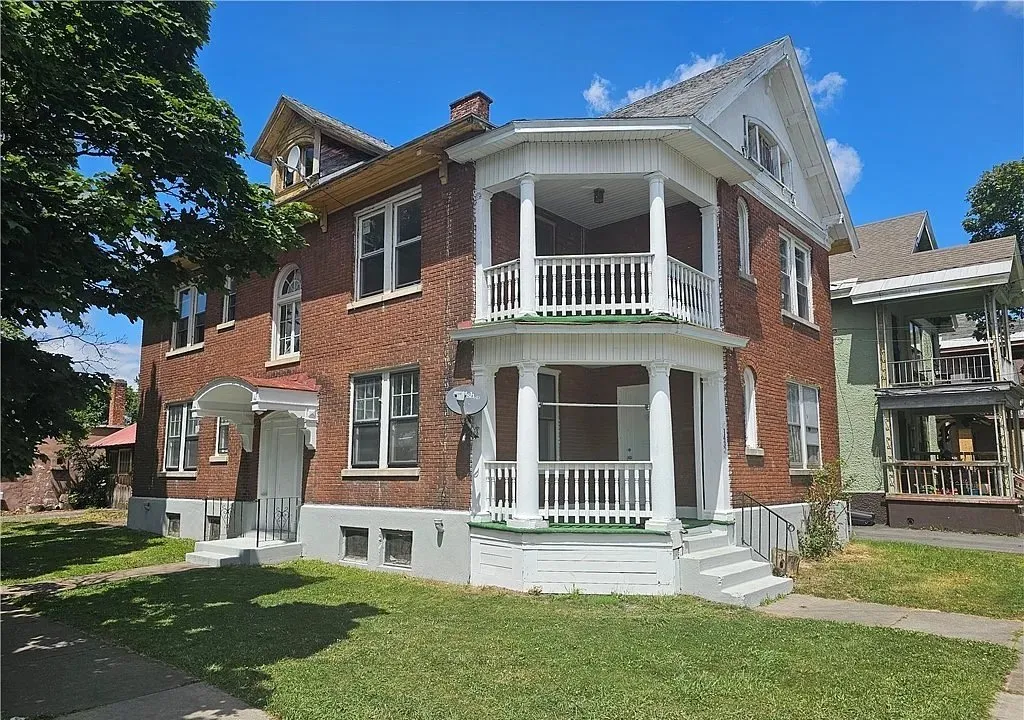
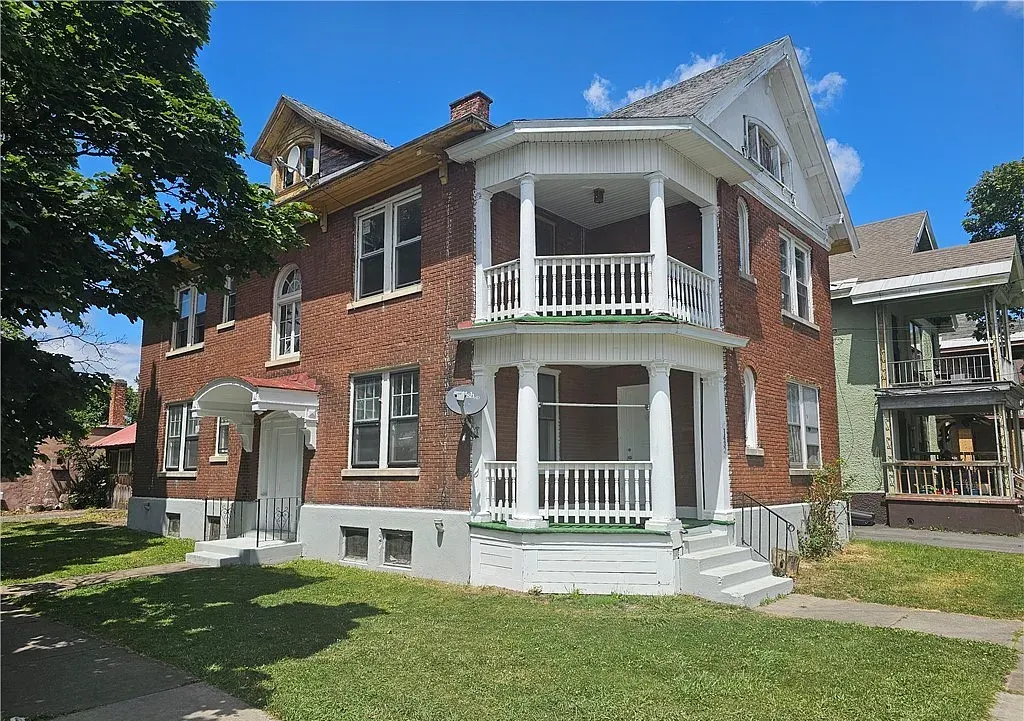
QA fixes, all project photos, decks service, stronger services page

diff --git a/src/data/services.ts b/src/data/services.ts
@@ -3,6 +3,7 @@ export interface Service {
   name: string;
   summary: string;
   intro: string;
+  design: string;
   includes: string[];
   image: string;
   imageAlt: string;
@@ -13,65 +14,93 @@ export const services: Service[] = [
   {
     slug: "kitchens-baths",
     name: "Kitchens and baths",
-    summary: "Full remodels or targeted updates: cabinets, counters, tile, fixtures and layout changes.",
+    summary: "Full remodels or targeted updates, from layout and cabinets to tile and fixtures.",
     intro:
-      "Kitchens and bathrooms are the rooms people use hardest and notice most. We handle the whole job, from demo through tile, fixtures and trim, with one crew start to finish.",
+      "Kitchens and bathrooms are the rooms people use hardest and notice most. We take on everything from a full gut remodel to a cabinet and countertop refresh, with one crew from demo to the last fixture.",
+    design:
+      "Not sure what you want yet? We help you work out the layout, cabinets, counters, tile and fixtures before any work starts, so you know what the finished room will look like.",
     includes: [
-      "Full kitchen and bathroom remodels",
-      "Cabinets and countertops",
-      "Tile floors, backsplashes and showers",
-      "Plumbing fixtures and vanities",
-      "Layout changes and new lighting",
+      "Full kitchen remodels",
+      "Bathroom remodels and updates",
+      "Cabinets, countertops and islands",
+      "Tile backsplashes, floors and showers",
+      "Sinks, faucets, vanities and fixtures",
+      "Layout changes, lighting and flooring",
     ],
-    image: "/images/kitchen.webp",
-    imageAlt: "Remodeled kitchen",
+    image: "/images/kitchen-dark-cabinets-wide.webp",
+    imageAlt: "Kitchen with dark cabinets, island and tile backsplash",
   },
   {
-    slug: "basements-living-spaces",
-    name: "Basements and living spaces",
-    summary: "Finished basements, flooring, paint, trim and stairs.",
+    slug: "living-spaces-basements",
+    name: "Living spaces and basements",
+    summary: "Flooring, paint, trim, stairs, and finished attics and basements.",
     intro:
-      "A finished basement or a refreshed living area changes how a house lives day to day. We frame, finish and trim it out so it feels like it was always part of the home.",
+      "A refreshed living area or a newly finished attic or basement changes how a house lives day to day. We handle the floors, walls, trim and stairs so the space feels like it was always part of the home.",
+    design:
+      "We help you plan the space: flooring and paint choices, trim details, and how a finished attic or basement will be laid out and used.",
     includes: [
-      "Finished basements",
-      "Flooring installation",
+      "Hardwood, vinyl plank and tile flooring",
       "Interior painting",
       "Trim, doors and millwork",
-      "Stairs and railings",
+      "Stairs, railings and balusters",
+      "Finished attics and basements",
     ],
-    image: "/images/staircase.webp",
-    imageAlt: "Rebuilt staircase and trim",
+    image: "/images/open-kitchen-living.webp",
+    imageAlt: "Open kitchen and living area with hardwood floors",
   },
   {
     slug: "whole-home-renovations",
     name: "Whole-home renovations",
     summary: "Several rooms or the whole house, planned and built as one project.",
     intro:
-      "When a house needs more than one room done, it pays to plan it as one project. We sequence the work so trades are not undoing each other, and one crew carries it through.",
+      "When a house needs more than one room done, it pays to plan it as one project. We sequence the work so trades are not undoing each other, and one crew carries it through from start to finish.",
+    design:
+      "We help you set priorities and a plan for the whole house, room by room, so the finishes work together and the work happens in the right order.",
     includes: [
       "Multi-room remodels",
       "Full interior renovations",
+      "Kitchens, baths and floors done together",
+      "Interior and exterior work planned as one project",
       "Planning and sequencing the work",
-      "Coordinating interior and exterior work",
     ],
-    image: "/images/living-room.webp",
-    imageAlt: "Open living area after renovation",
+    image: "/images/exterior.webp",
+    imageAlt: "Brick two-family home after a whole-home renovation",
+  },
+  {
+    slug: "decks-porches-outdoor-living",
+    name: "Decks, porches and outdoor living",
+    summary: "Decks, covered and screened porches, patios and outdoor fireplaces.",
+    intro:
+      "Outdoor space is some of the most-used square footage a house has. We build single and multi-level decks, covered and screened porches, stairs and railings, and stone patios with outdoor fireplaces.",
+    design:
+      "We help you design it: size and layout, levels and stairs, railing and decking materials, and how it connects to the house and the yard.",
+    includes: [
+      "Single and multi-level decks",
+      "Covered and screened porches",
+      "Stairs and railings",
+      "Paver patios",
+      "Stone outdoor fireplaces",
+    ],
+    image: "/images/double-covered-deck.webp",
+    imageAlt: "Two-story double covered deck",
   },
   {
     slug: "roofing-siding-windows",
     name: "Roofing, siding and windows",
-    summary: "Exterior work on its own or as part of a larger renovation.",
+    summary: "Roofs, siding and windows, on their own or as part of a renovation.",
     intro:
-      "Roofing, siding and windows protect everything inside. We take them on as standalone jobs or as part of a bigger renovation.",
+      "Roofing, siding and windows protect everything inside and set the look of the house from the street. We take them on as standalone jobs or as part of a bigger renovation.",
+    design:
+      "We help you choose materials and colors that suit the house, from shingle and siding styles to trim and window options.",
     includes: [
-      "Roof repairs and replacements",
+      "Roof repairs and full replacements",
       "Vinyl, cedar and engineered siding",
       "Window replacement",
-      "Porches and exterior trim",
+      "Exterior trim and doors",
       "Exterior painting",
     ],
-    image: "/images/exterior.webp",
-    imageAlt: "Home exterior with renovated porches",
+    image: "/images/roofing-siding-blue.webp",
+    imageAlt: "Colonial home with new blue vinyl siding and roof",
   },
 ];
 

diff --git a/src/data/gallery.ts b/src/data/gallery.ts
@@ -1,14 +1,60 @@
 export interface Photo {
   src: string;
   alt: string;
-  service: string; // service slug
+  service?: string; // service slug, if the photo belongs to one
+  featured?: boolean; // shown in the home page row
 }
 
-// Newest first. Add a photo by dropping the file in public/images and adding a line here.
+// Add a photo by dropping the file in public/images and adding a line here.
 export const gallery: Photo[] = [
-  { src: "/images/living-room.webp", alt: "Renovated living area with refinished hardwood floors", service: "whole-home-renovations" },
-  { src: "/images/kitchen.webp", alt: "Renovated kitchen with white cabinets", service: "kitchens-baths" },
-  { src: "/images/bathroom.webp", alt: "Renovated bathroom with new vanity", service: "kitchens-baths" },
-  { src: "/images/staircase.webp", alt: "Rebuilt staircase with new railings", service: "basements-living-spaces" },
-  { src: "/images/exterior.webp", alt: "Brick home with renovated double porches", service: "roofing-siding-windows" },
+  // Kitchens and baths
+  { src: "/images/kitchen-dark-cabinets-wide.webp", alt: "Kitchen with dark cabinets, island and tile backsplash", service: "kitchens-baths", featured: true },
+  { src: "/images/kitchen-navy-cabinets.webp", alt: "Kitchen with navy cabinets and mosaic backsplash", service: "kitchens-baths", featured: true },
+  { src: "/images/kitchen-dark-cabinets.webp", alt: "L-shaped kitchen with dark cabinets and quartz counters", service: "kitchens-baths" },
+  { src: "/images/kitchen-dark-cabinets-2.webp", alt: "Kitchen with dark cabinets and stainless appliances", service: "kitchens-baths" },
+  { src: "/images/kitchen-navy-cabinets-2.webp", alt: "Navy kitchen cabinets with range and microwave", service: "kitchens-baths" },
+  { src: "/images/kitchen-backsplash.webp", alt: "Cabinets and glass tile backsplash", service: "kitchens-baths" },
+  { src: "/images/kitchen-white.webp", alt: "Kitchen with white cabinets and new flooring", service: "kitchens-baths" },
+  { src: "/images/shower-tile.webp", alt: "Tiled walk-in shower", service: "kitchens-baths" },
+  { src: "/images/bathroom-vanity.webp", alt: "Bathroom with new vanity and lighting", service: "kitchens-baths" },
+  { src: "/images/bathroom-tile.webp", alt: "Bathroom with tile floor and new vanity", service: "kitchens-baths" },
+
+  // Living spaces and basements
+  { src: "/images/open-kitchen-living.webp", alt: "Open kitchen and living area with hardwood floors", service: "living-spaces-basements", featured: true },
+  { src: "/images/living-room.webp", alt: "Living room with refinished hardwood floors", service: "living-spaces-basements", featured: true },
+  { src: "/images/finished-attic.webp", alt: "Finished attic room with hardwood floors", service: "living-spaces-basements" },
+  { src: "/images/staircase.webp", alt: "Staircase with new railings and balusters", service: "living-spaces-basements" },
+  { src: "/images/hardwood-living.webp", alt: "Hardwood floors in an open living area", service: "living-spaces-basements" },
+  { src: "/images/living-room-2.webp", alt: "Living room opening to entry hall", service: "living-spaces-basements" },
+  { src: "/images/dining-room.webp", alt: "Dining room with new floors and trim", service: "living-spaces-basements" },
+  { src: "/images/dining-room-2.webp", alt: "Dining room with chandelier and hardwood floors", service: "living-spaces-basements" },
+  { src: "/images/hallway-tile.webp", alt: "Hallway with mosaic tile floor", service: "living-spaces-basements" },
+
+  // Whole-home renovations
+  { src: "/images/exterior.webp", alt: "Brick two-family home after a whole-home renovation", service: "whole-home-renovations", featured: true },
+  { src: "/images/exterior-in-progress.webp", alt: "Brick home during exterior work", service: "whole-home-renovations" },
+
+  // Roofing, siding and windows
+  { src: "/images/roofing-siding-blue.webp", alt: "Colonial home with new blue vinyl siding and roof", service: "roofing-siding-windows", featured: true },
+  { src: "/images/siding-exterior-2.webp", alt: "Two-story home with blue siding", service: "roofing-siding-windows" },
+  { src: "/images/siding-exterior.webp", alt: "Rear of a two-story home with blue siding and decks", service: "roofing-siding-windows" },
+
+  // Decks, porches and outdoor living
+  { src: "/images/double-covered-deck.webp", alt: "Two-story double covered deck", service: "decks-porches-outdoor-living", featured: true },
+  { src: "/images/outdoor-fireplace.webp", alt: "Stone outdoor fireplace with paver patio", service: "decks-porches-outdoor-living", featured: true },
+  { src: "/images/deck-steps-dusk.webp", alt: "Deck with wide curved steps at dusk", service: "decks-porches-outdoor-living", featured: true },
+  { src: "/images/double-covered-deck-2.webp", alt: "Double covered deck with white railings", service: "decks-porches-outdoor-living" },
+  { src: "/images/two-story-deck.webp", alt: "Two-story deck on a sided home", service: "decks-porches-outdoor-living" },
+  { src: "/images/covered-deck.webp", alt: "Covered deck with stairs and cable railing", service: "decks-porches-outdoor-living" },
+  { src: "/images/covered-deck-2.webp", alt: "Covered deck with wide stairs", service: "decks-porches-outdoor-living" },
+  { src: "/images/screened-porch.webp", alt: "Screened porch addition", service: "decks-porches-outdoor-living" },
+  { src: "/images/porch-fireplace.webp", alt: "Stone fireplace on a covered porch", service: "decks-porches-outdoor-living" },
+  { src: "/images/outdoor-fireplace-2.webp", alt: "Stacked stone outdoor fireplace and patio", service: "decks-porches-outdoor-living" },
+  { src: "/images/outdoor-fireplace-patio.webp", alt: "Outdoor fireplace with stone seating wall", service: "decks-porches-outdoor-living" },
+  { src: "/images/deck-stairs.webp", alt: "Deck stairs and privacy wall", service: "decks-porches-outdoor-living" },
+  { src: "/images/deck-framing.webp", alt: "Multi-level deck framing during construction", service: "decks-porches-outdoor-living" },
+  { src: "/images/deck-build.webp", alt: "Two-level deck under construction", service: "decks-porches-outdoor-living" },
+  { src: "/images/deck-build-2.webp", alt: "Two-level deck framing", service: "decks-porches-outdoor-living" },
 ];
+
+export const featuredPhotos = gallery.filter((p) => p.featured);
